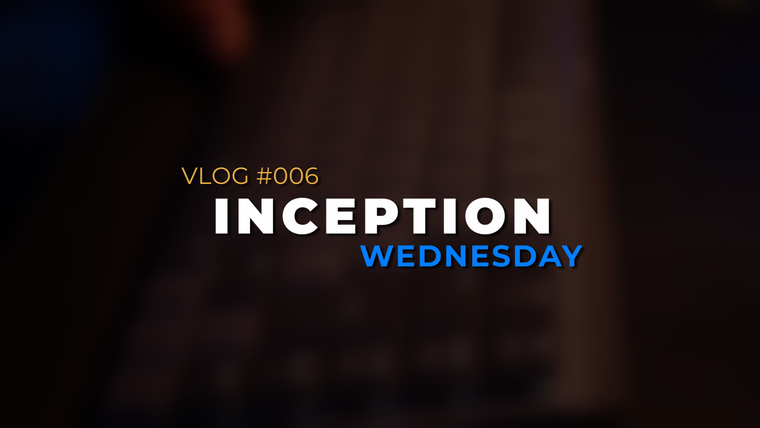
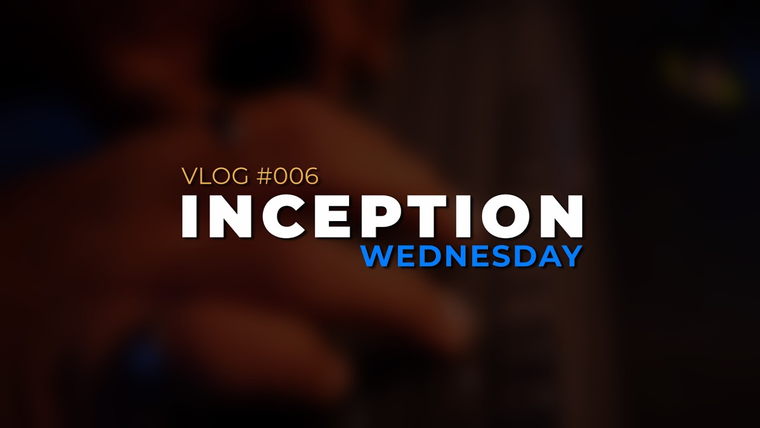
README: point tour thumbnail to the intro video; fix channel order

diff --git a/README.md b/README.md
@@ -5,8 +5,8 @@
 [![Sponsor](https://img.shields.io/badge/Sponsor-%E2%9D%A4-ff69b4?logo=githubsponsors)](https://github.com/sponsors/gmrdad82)
 
 <!-- prettier-ignore -->
-<p align="center"><a href="https://www.youtube.com/@gmrdad82"><img src="docs/media/pito-tour-thumb.png" width="760" alt="▶ PITO — Inception Wednesday: a guided tour"></a></p>
-<p align="center"><em>▶ A guided tour of PITO — on <a href="https://www.youtube.com/@gmrdad82">@gmrdad82</a>.</em></p>
+<p align="center"><a href="https://youtu.be/7y3R403XtDE"><img src="docs/media/pito-tour-thumb.png" width="760" alt="▶ PITO — Inception Wednesday: a guided tour"></a></p>
+<p align="center"><em>▶ A guided tour of PITO — <a href="https://youtu.be/7y3R403XtDE">watch the tour</a>, on <a href="https://www.youtube.com/@gmrdad82">@gmrdad82</a>.</em></p>
 
 ## Why does this thing exist?
 
@@ -50,7 +50,7 @@ you" is a click on one of the channels that dragged this tool into existence in 
 first place:
 
 <!-- prettier-ignore -->
-<p align="center"><a href="https://www.youtube.com/@gmrdad82"><img src="docs/avatars/@gmrdad82.png" width="80" alt="@gmrdad82"></a> <a href="https://www.youtube.com/@gmrdad82fighter"><img src="docs/avatars/@gmrdad82fighter.png" width="80" alt="@gmrdad82fighter"></a> <a href="https://www.youtube.com/@gmrdad82good"><img src="docs/avatars/@gmrdad82good.png" width="80" alt="@gmrdad82good"></a> <a href="https://www.youtube.com/@gmrdad82hard"><img src="docs/avatars/@gmrdad82hard.png" width="80" alt="@gmrdad82hard"></a> <a href="https://www.youtube.com/@gmrdad82strategist"><img src="docs/avatars/@gmrdad82strategist.png" width="80" alt="@gmrdad82strategist"></a> <a href="https://www.youtube.com/@gmrdad82survivor"><img src="docs/avatars/@gmrdad82survivor.png" width="80" alt="@gmrdad82survivor"></a></p>
+<p align="center"><a href="https://www.youtube.com/@gmrdad82"><img src="docs/avatars/@gmrdad82.png" width="80" alt="@gmrdad82"></a> <a href="https://www.youtube.com/@gmrdad82good"><img src="docs/avatars/@gmrdad82good.png" width="80" alt="@gmrdad82good"></a> <a href="https://www.youtube.com/@gmrdad82hard"><img src="docs/avatars/@gmrdad82hard.png" width="80" alt="@gmrdad82hard"></a> <a href="https://www.youtube.com/@gmrdad82fighter"><img src="docs/avatars/@gmrdad82fighter.png" width="80" alt="@gmrdad82fighter"></a> <a href="https://www.youtube.com/@gmrdad82survivor"><img src="docs/avatars/@gmrdad82survivor.png" width="80" alt="@gmrdad82survivor"></a> <a href="https://www.youtube.com/@gmrdad82strategist"><img src="docs/avatars/@gmrdad82strategist.png" width="80" alt="@gmrdad82strategist"></a></p>
 
 ---
 